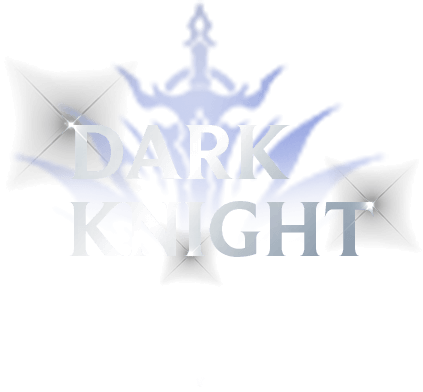
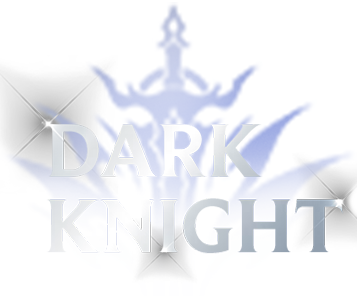
update ui

Changed region(s): [[0.0308, 0.0, 1.0, 0.9122], [0.1232, 0.6689, 0.2157, 0.8209], [0.2157, 0.6689, 0.3081, 0.6993]]

diff --git a/src/index.css b/src/index.css
@@ -1411,13 +1411,13 @@ img,
   .char-name-dk {
     position: relative;
     width: 80%;
-    aspect-ratio: 423/392;
+    aspect-ratio: 357/296;
   }
 
   .char-name-dw {
     position: relative;
     width: 80%;
-    aspect-ratio: 387/328;
+    aspect-ratio: 357/296;
   }
 
   .char-name-elf {
